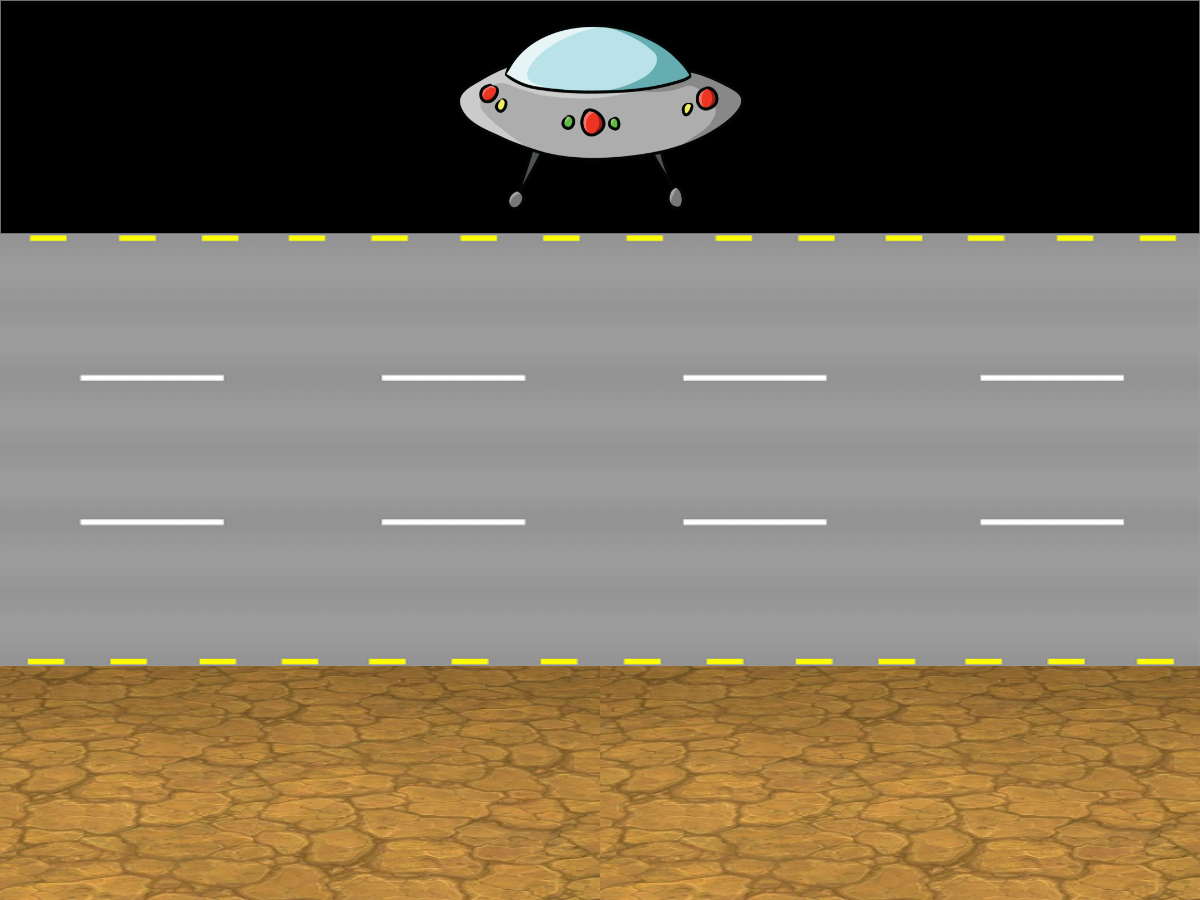
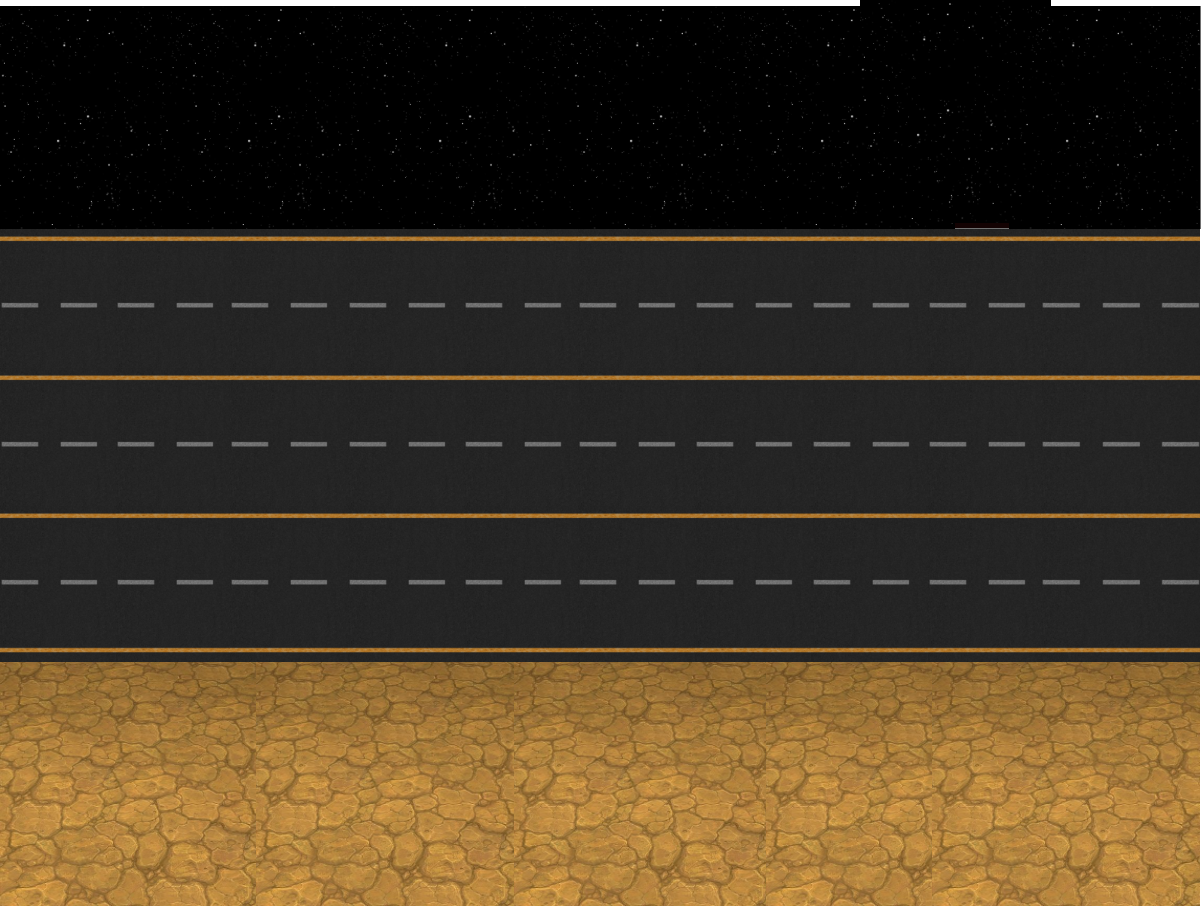
Change background and spaceship.

diff --git a/game.js b/game.js
@@ -23,6 +23,7 @@ var config = {
 var game = new Phaser.Game(config);
 let player;
 let cursors;
+let __spaceship;
 let __monsters;
 let __parts;
 let __meteors;
@@ -30,6 +31,7 @@ let __meteors;
 //load assets here
 function preload() {
     this.load.image('bg', 'assets/bg.png');
+    this.load.image('spaceship', 'assets/spaceship.png');
 
     __monsters = new Monsters(game, this);
     __parts = new Parts(this);
@@ -39,6 +41,10 @@ function preload() {
 
 function create() {
     this.add.image(600, 450, 'bg');
+    // this.add.image(600, 115, 'spaceship');
+    this.__spaceship = this.physics.add.sprite(600, 115, 'spaceship', 4);
+    this.__spaceship.setCollideWorldBounds(true);
+
     player.initialize();
     __monsters.initialize();
     __parts.initParts();
